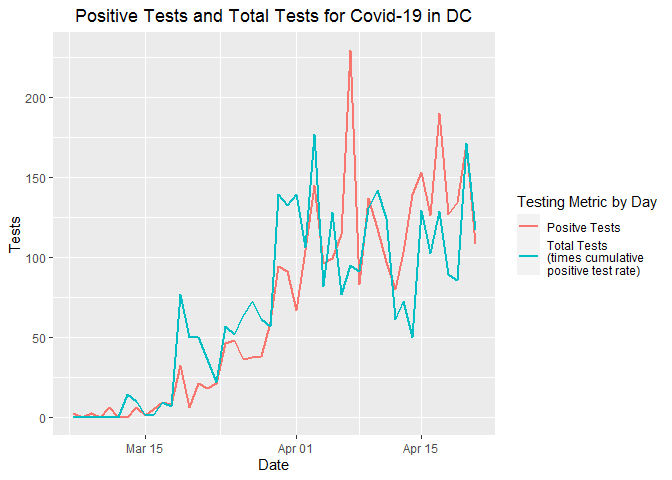
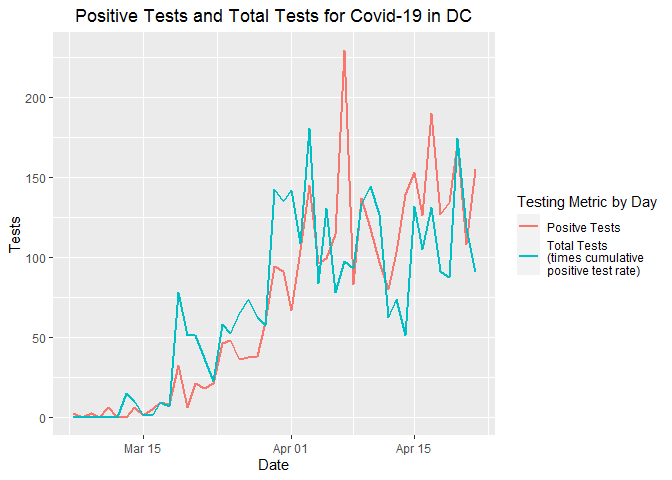
23 April morning update - last probable update for Testing Result Lag

diff --git a/Markdown/Testing_Results_Lag.md b/Markdown/Testing_Results_Lag.md
@@ -3,50 +3,54 @@ Lag in DC Test Results
 
 ### Postive Covid-19 Results in DC Lag by About Four Days
 
-22 April, 2020
+23 April, 2020
+
+**Note: I’m going to stop updating this file as the clear relationship
+between tests a few days ago and positive numbers now doesn’t appear to
+be valid anymore.**
 
 The below plot shows the number of Positive Tests in red and the number
 of New Tests (multiplied by the positive test rate) in blue. Although
 the numbers tracked pretty well early on in testing, they have diverged
-recently. The correlation coefficient is currently 0.8077552.
+recently. The correlation coefficient is currently 0.8005374.
 
 ![](Testing_Results_Lag_files/figure-gfm/same_day-1.png)<!-- -->
 
 The below plot shows the number of Positive Tests in red compared to the
 number of New Tests four days ago (times the cumulative positive test
 rate) in blue. These numbers track much better, with a current
-correlation coefficient of 0.8614693.
+correlation coefficient of 0.8573462.
 
 ![](Testing_Results_Lag_files/figure-gfm/lag_4-1.png)<!-- -->
 
 Here is the correlation matrix for those interested in such a thing.
 
     ##              Test_New   Pos_New Test_Lag_1 Test_Lag_2 Test_Lag_3 Test_Lag_4
-    ## Test_New    1.0000000 0.8077552  0.7537070  0.7670827  0.6563022  0.7034331
-    ## Pos_New     0.8077552 1.0000000  0.6764989  0.7634820  0.7337845  0.8614693
-    ## Test_Lag_1  0.7537070 0.6764989  1.0000000  0.7630082  0.7748538  0.6648125
-    ## Test_Lag_2  0.7670827 0.7634820  0.7630082  1.0000000  0.7876782  0.7957145
-    ## Test_Lag_3  0.6563022 0.7337845  0.7748538  0.7876782  1.0000000  0.7931553
-    ## Test_Lag_4  0.7034331 0.8614693  0.6648125  0.7957145  0.7931553  1.0000000
-    ## Test_Lag_5  0.6897263 0.7731055  0.7060293  0.6581132  0.8060758  0.8012896
-    ## Test_Lag_6  0.7159794 0.8254042  0.6932050  0.7128230  0.6661210  0.8102823
-    ## Test_Lag_7  0.6576772 0.8103035  0.7176776  0.6836387  0.7243702  0.6750514
-    ## Test_Lag_8  0.6548036 0.8081989  0.6732503  0.7594062  0.6933292  0.7337612
-    ## Test_Lag_9  0.6101411 0.7417036  0.6620825  0.6944101  0.7639219  0.6989742
-    ## Test_Lag_10 0.6794897 0.7812898  0.6206934  0.6904321  0.7008467  0.7691034
+    ## Test_New    1.0000000 0.8005374  0.7528415  0.7474900  0.6574723  0.7044287
+    ## Pos_New     0.8005374 1.0000000  0.6839421  0.7742732  0.7306120  0.8573462
+    ## Test_Lag_1  0.7528415 0.6839421  1.0000000  0.7624816  0.7751079  0.6676042
+    ## Test_Lag_2  0.7474900 0.7742732  0.7624816  1.0000000  0.7708756  0.7819632
+    ## Test_Lag_3  0.6574723 0.7306120  0.7751079  0.7708756  1.0000000  0.7942347
+    ## Test_Lag_4  0.7044287 0.8573462  0.6676042  0.7819632  0.7942347  1.0000000
+    ## Test_Lag_5  0.6855713 0.7822784  0.7126163  0.6749142  0.8016943  0.7990223
+    ## Test_Lag_6  0.7156503 0.8280881  0.6988118  0.7143976  0.6677115  0.8112982
+    ## Test_Lag_7  0.6527717 0.8185657  0.7236941  0.7014387  0.7203872  0.6747240
+    ## Test_Lag_8  0.6537431 0.7907564  0.6665863  0.7247441  0.6915465  0.7310507
+    ## Test_Lag_9  0.6114420 0.7378356  0.6633478  0.6811519  0.7649596  0.7004736
+    ## Test_Lag_10 0.6800005 0.7717437  0.6193804  0.6697833  0.7012145  0.7689503
     ##             Test_Lag_5 Test_Lag_6 Test_Lag_7 Test_Lag_8 Test_Lag_9 Test_Lag_10
-    ## Test_New     0.6897263  0.7159794  0.6576772  0.6548036  0.6101411   0.6794897
-    ## Pos_New      0.7731055  0.8254042  0.8103035  0.8081989  0.7417036   0.7812898
-    ## Test_Lag_1   0.7060293  0.6932050  0.7176776  0.6732503  0.6620825   0.6206934
-    ## Test_Lag_2   0.6581132  0.7128230  0.6836387  0.7594062  0.6944101   0.6904321
-    ## Test_Lag_3   0.8060758  0.6661210  0.7243702  0.6933292  0.7639219   0.7008467
-    ## Test_Lag_4   0.8012896  0.8102823  0.6750514  0.7337612  0.6989742   0.7691034
-    ## Test_Lag_5   1.0000000  0.8029834  0.8068166  0.6971757  0.7432569   0.7129821
-    ## Test_Lag_6   0.8029834  1.0000000  0.8048600  0.8189252  0.7029845   0.7510367
-    ## Test_Lag_7   0.8068166  0.8048600  1.0000000  0.8291965  0.8300112   0.7186350
-    ## Test_Lag_8   0.6971757  0.8189252  0.8291965  1.0000000  0.8346388   0.8339814
-    ## Test_Lag_9   0.7432569  0.7029845  0.8300112  0.8346388  1.0000000   0.8377869
-    ## Test_Lag_10  0.7129821  0.7510367  0.7186350  0.8339814  0.8377869   1.0000000
+    ## Test_New     0.6855713  0.7156503  0.6527717  0.6537431  0.6114420   0.6800005
+    ## Pos_New      0.7822784  0.8280881  0.8185657  0.7907564  0.7378356   0.7717437
+    ## Test_Lag_1   0.7126163  0.6988118  0.7236941  0.6665863  0.6633478   0.6193804
+    ## Test_Lag_2   0.6749142  0.7143976  0.7014387  0.7247441  0.6811519   0.6697833
+    ## Test_Lag_3   0.8016943  0.6677115  0.7203872  0.6915465  0.7649596   0.7012145
+    ## Test_Lag_4   0.7990223  0.8112982  0.6747240  0.7310507  0.7004736   0.7689503
+    ## Test_Lag_5   1.0000000  0.8064778  0.8149726  0.6827639  0.7397766   0.7054442
+    ## Test_Lag_6   0.8064778  1.0000000  0.8077145  0.8112264  0.7038708   0.7486109
+    ## Test_Lag_7   0.8149726  0.8077145  1.0000000  0.8091770  0.8227753   0.7090417
+    ## Test_Lag_8   0.6827639  0.8112264  0.8091770  1.0000000  0.8327191   0.8333506
+    ## Test_Lag_9   0.7397766  0.7038708  0.8227753  0.8327191  1.0000000   0.8378140
+    ## Test_Lag_10  0.7054442  0.7486109  0.7090417  0.8333506  0.8378140   1.0000000
 
 A couple notes. First, the test counts for 20 March were missing so I
 averaged the 19 March and 21 March test rate. In addition, for the
